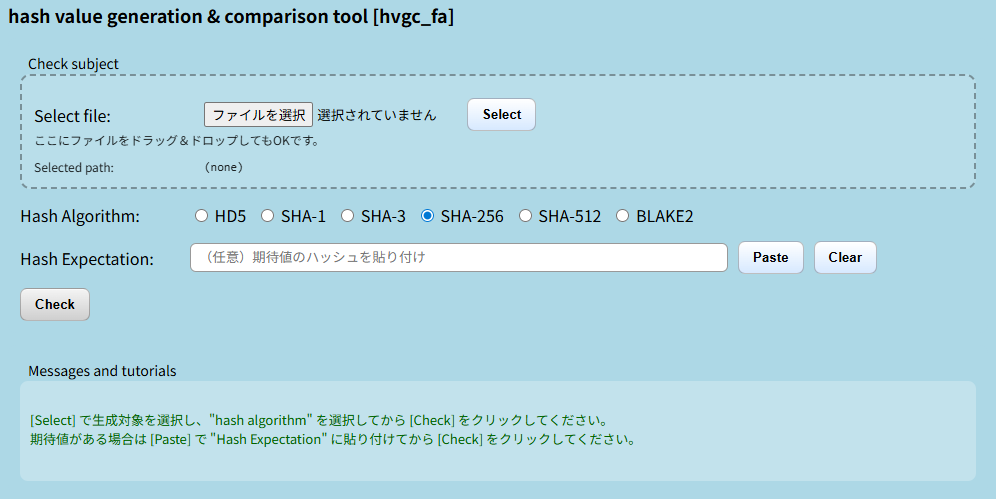
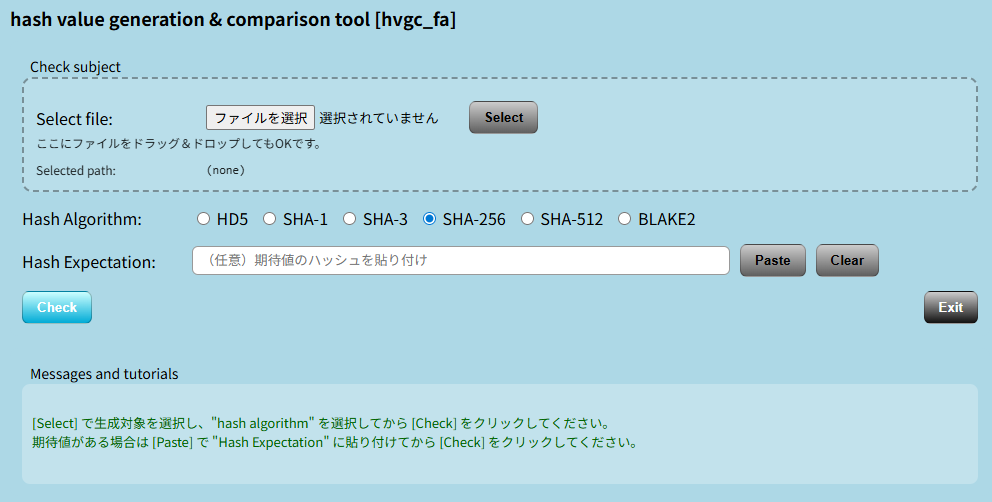
Unified GUI

diff --git a/hvcg_fa/templates/index.html b/hvcg_fa/templates/index.html
@@ -78,21 +78,51 @@
       }
 
       /* TkのCanvasグラデボタン風 */
+
+
+
+
+
+
       .gbtn{
-        appearance: none;
-      border: 1px solid rgba(0,0,0,.25);
-        border-radius: 7px;
-      padding: 8px 14px;
-        cursor: pointer;
-      font-weight: 600;
-        background: linear-gradient(to bottom, #f4f4f4, #cfcfcf);
-      box-shadow: inset 0 1px 0 rgba(255,255,255,.7);
-        user-select: none;
-    }
-    .gbtn:active{
-      transform: translateY(1px);
-        box-shadow: inset 0 2px 4px rgba(0,0,0,.15);
-    }
+          appearance: none;
+          border: 1px solid rgba(0,0,0,.25);
+          border-radius: 7px;
+          padding: 8px 14px;
+          cursor: pointer;
+          font-weight: 600;
+          user-select: none;
+      }
+      
+      .gbtn:active{
+          transform: translateY(1px);
+          box-shadow: inset 0 2px 4px rgba(0,0,0,.15);
+      }
+      
+      .gbtn:hover{
+          filter: brightness(1.08);
+      }
+      
+      /* Check : Cyan */
+      .gbtn.check{
+          color: white;
+          background: linear-gradient(to bottom, #CCFFFF, #00ABD6);
+      }
+      
+      /* Exit : Black */
+      .gbtn.exit{
+          color: white;
+          background: linear-gradient(to bottom, #CCCCCC, #111111);
+      }
+      
+      /* Other : Gray */
+      .gbtn.sub{
+          color: black;
+          background: linear-gradient(to bottom, #CCCCCC, #5F5F5F);
+      }
+
+
+
 
     .gbtn.secondary{
       background: linear-gradient(to bottom, #ffffff, #d7e9ff);
@@ -152,7 +182,7 @@
         <div class="row">
           <div class="label">Select file:</div>
             <input id="file" type="file" name="file" required>
-          <button class="gbtn secondary" type="button" id="btnSelect">Select</button>
+		    <button class="gbtn sub" type="button" id="btnSelect">Select</button>
           </div>
           <div class="small">ここにファイルをドラッグ＆ドロップしてもOKです。</div>
           <div class="row small">
@@ -174,13 +204,20 @@
       <div class="row" style="margin-top: 14px;">
           <div class="label">Hash Expectation:</div>
           <input id="expected" type="text" name="expected" placeholder="（任意）期待値のハッシュを貼り付け">
-          <button class="gbtn secondary" type="button" id="btnPaste">Paste</button>
-          <button class="gbtn secondary" type="button" id="btnClear">Clear</button>
+          <button class="gbtn sub" type="button" id="btnPaste">Paste</button>
+		  <button class="gbtn sub" type="button" id="btnClear">Clear</button>
         </div>
 
       <div class="row" style="margin-top: 14px;">
-          <button class="gbtn" type="submit" id="btnCheck">Check</button>
-        </div>
+          <button class="gbtn check" type="submit" id="btnCheck">Check</button>
+      
+          <div style="flex:1;"></div>
+      
+          <button class="gbtn exit" type="button" onclick="window.close()">
+              Exit
+          </button>
+      </div>
+
     </form>
 
     <div class="frame">

diff --git a/ptnc_flask/templates/index.html b/ptnc_flask/templates/index.html
@@ -59,7 +59,7 @@
         }
 
         .readonly {
-            background: #eeeeee !important;
+            background: #f5f5f5 !important;
             color: #666666;
         }
 
@@ -67,12 +67,36 @@
             width: 110px;
             height: 30px;
             margin-left: 8px;
-            color: snow;
-            border: 1px solid gray;
+            border: 1px solid #666666;
             cursor: pointer;
-            background: linear-gradient(#696969, #f5f5f5);
             font-size: 14px;
             font-weight: bold;
+        }
+        
+        button:hover {
+            filter: brightness(1.08);
+        }
+        
+        button:active {
+            transform: translate(1px, 1px);
+        }
+        
+        /* Conversion : Cyan */
+        .btn-conv {
+            color: white;
+            background: linear-gradient(#CCFFFF, #00ABD6);
+        }
+        
+        /* Exit : Black */
+        .btn-exit {
+            color: white;
+            background: linear-gradient(#CCCCCC, #111111);
+        }
+        
+        /* Other : Gray */
+        .btn-sub {
+            color: black;
+            background: linear-gradient(#CCCCCC, #5F5F5F);
         }
 
         button:hover {
@@ -138,25 +162,25 @@
     <div class="row">
         <label class="main-label">Binary value</label>
         <input id="binary" type="text">
-        <button onclick="copyText('binary')">Copy</button>
+        <button class="btn-sub" onclick="copyText('binary')">Copy</button>
     </div>
 
     <div class="row">
         <label class="main-label">Octal value</label>
         <input id="octal" type="text">
-        <button onclick="copyText('octal')">Copy</button>
+        <button class="btn-sub" onclick="copyText('octal')">Copy</button>
     </div>
 
     <div class="row">
         <label class="main-label">Decimal value</label>
         <input id="decimal" type="text">
-        <button onclick="copyText('decimal')">Copy</button>
+        <button class="btn-sub" onclick="copyText('decimal')">Copy</button>
     </div>
 
     <div class="row">
         <label class="main-label">Hex value</label>
         <input id="hex" type="text">
-        <button onclick="copyText('hex')">Copy</button>
+        <button class="btn-sub" onclick="copyText('hex')">Copy</button>
     </div>
 
     <div class="option-area">
@@ -190,13 +214,13 @@
     </div>
 
     <div class="buttons">
-        <button onclick="convert()">Conversion</button>
-        <button onclick="clearAll()">Clear</button>
-        <button onclick="showHelp()">Help</button>
+        <button class="btn-conv" onclick="convert()">Conversion</button>
+        <button class="btn-sub" onclick="clearAll()">Clear</button>
+        <button class="btn-sub" onclick="showHelp()">Help</button>
         <div class="spacer"></div>
-        <button onclick="window.close()">Exit</button>
+        <button class="btn-exit" onclick="window.close()">Exit</button>
     </div>
-
+	
     <div id="message" class="message"></div>
 </div>
 
@@ -340,7 +364,7 @@
 
     function showHelp() {
         alert(
-            "name : bdct\n" +
+            "name : ptnc\n" +
             "BIN / OCT / DEC / HEX 変換ツール\n\n" +
             "  Binary value : 2進数\n" +
             "  Octal value  : 8進数\n" +

diff --git a/README.md b/README.md
@@ -9,10 +9,7 @@
 　* デスクトップアプリケーション ( **C#** [ **WPF** ] / **Python** [ **PySide6** / **Tkinter** ] )  
 　* Web (API / アプリケーション) ( **Python** [ **FastAPI** / **FLASK**] )  
 単なる機能実装に留まらず、実運用を想定し、操作性・安全性・再現性を重視した設計としています。  
-本ツール群は以下の設計思想で構築しています：  
-　・操作の一貫性（Scan / Execute / Undo / Clear / Exit）  
-　・UI配色の統一（機能ごとの配色ルール）  
-　・複数フレームワーク間での設計共通化  
+本ツール群では、複数フレームワーク間での**UI/UX**統一を目的として、ボタン色・操作体系・ログ表現を共通化しています。  
 
 <br>
 